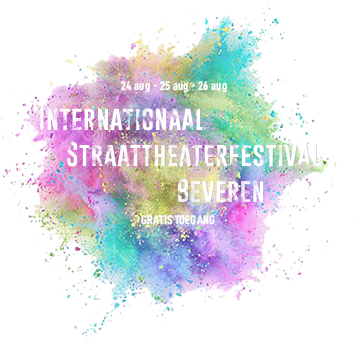
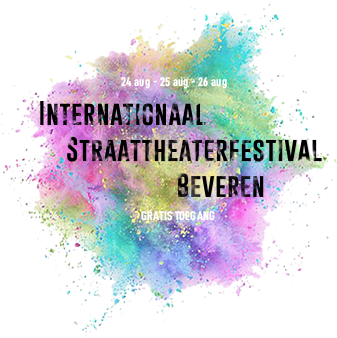
respo headerimg

diff --git a/src/style.css b/src/style.css
@@ -76,6 +76,16 @@ main {
   }
 }
 
+.pageHeader-image {
+  @media (--md) {
+    margin-top: -3rem;
+  }
+
+  @media (--lg) {
+    margin-top: -5rem;
+  }
+}
+
 .nameHeader {
   width: 80%;
 

diff --git a/src/view/pages/index.php b/src/view/pages/index.php
@@ -1,7 +1,63 @@
 <main class="mainGrid">
       <header class="pageHeader">
         <h1 class="hidden">International TheaterFestival Beveren</h1>
-        <img src="assets/img/headerimg@0,5x.png" alt="kleurrijke krijtexplosie met naam festival" />
+        <picture class="pageHeader-image">
+            <source
+              type="image/webp"
+              media="(min-width: 1104px)"
+              srcset="assets/img/headerimg@1,15x.webp 1x"
+            />
+            <source
+              type="image/webp"
+              media="(min-width: 1024px)"
+              srcset="assets/img/headerimg.webp 1x"
+            />
+            <source
+              type="image/webp"
+              media="(min-width: 768px)"
+              srcset="assets/img/headerimg@0,75x.webp 1x"
+            />
+            <source
+              type="image/webp"
+              media="(min-width: 320px)"
+              srcset="assets/img/headerimg@0,5x.webp 1x"
+            />
+            <source
+              type="image/webp"
+              media="(min-width: 0px)"
+              srcset="assets/img/headerimg@0,33x.webp 1x"
+            />
+
+            <source
+              type="image/png"
+              media="(min-width: 1104px)"
+              srcset="assets/img/headerimg@1,15x.png 1x"
+            />
+            <source
+              type="image/webp"
+              media="(min-width: 1024px)"
+              srcset="assets/img/headerimg.webp 1x"
+            />
+            <source
+              type="image/png"
+              media="(min-width: 768px)"
+              srcset="assets/img/headerimg@0,75x.png 1x"
+            />
+            <source
+              type="image/png"
+              media="(min-width: 320px)"
+              srcset="assets/img/headerimg@0,5x.png 1x"
+            />
+            <source
+              type="image/png"
+              media="(min-width: 0px)"
+              srcset="assets/img/headerimg@0,33x.png 1x"
+            />
+          <img src="assets/img/headerimg@0,5x.png" alt="kleurrijke krijtexplosie met naam festival" />
+        </picture>
+
+
+
         <div class="infoDiv">
           <dl class="info">
             <dt>13</dt>
@@ -31,7 +87,7 @@
                 </div>
               </div>
               <div class="gradient">
-                <img class="top" src="assets/img/TheSkyIsTheLimit.jpg" alt="foto van The Flying Dutchmen" />
+                <img class="top" src="assets/img/isb/vrijdag/voorstelling/004-the-flying-dutchmen.jpg" alt="foto van The Flying Dutchmen" />
               </div>
             </article>
             </a>
@@ -48,7 +104,7 @@
                 </div>
               </div>
               <div class="gradient">
-                <img class="top" src="assets/img/sittingDuckChiringuito.jpg" alt="foto van Sie Sitting Duck" />
+                <img class="top" src="assets/img/isb/vrijdag/voorstelling/005-sitting-duck-chiringuito-paradise.jpg" alt="foto van Sie Sitting Duck" />
               </div>
             </article>
             </a>
@@ -65,7 +121,7 @@
                 </div>
               </div>
               <div class="gradient">
-                <img class="top" src="assets/img/Silento.jpg" alt="foto van Cie Xav To Yilo" />
+                <img class="top" src="assets/img/isb/vrijdag/voorstelling/006-xav-to-yilo-silento.jpg" alt="foto van Cie Xav To Yilo" />
               </div>
             </article>
             </a>

diff --git a/src/view/layout.php b/src/view/layout.php
@@ -32,7 +32,7 @@
             <input
               type="radio"
               id="switch_nl"
-              name="switch_1"
+              name="switch_nl"
               value="Nederlands"
               checked
             />
@@ -40,7 +40,7 @@
             <input
               type="radio"
               id="switch_eng"
-              name="switch_1"
+              name="switch_eng"
               value="English"
             />
             <label for="switch_eng">ENG</label>
